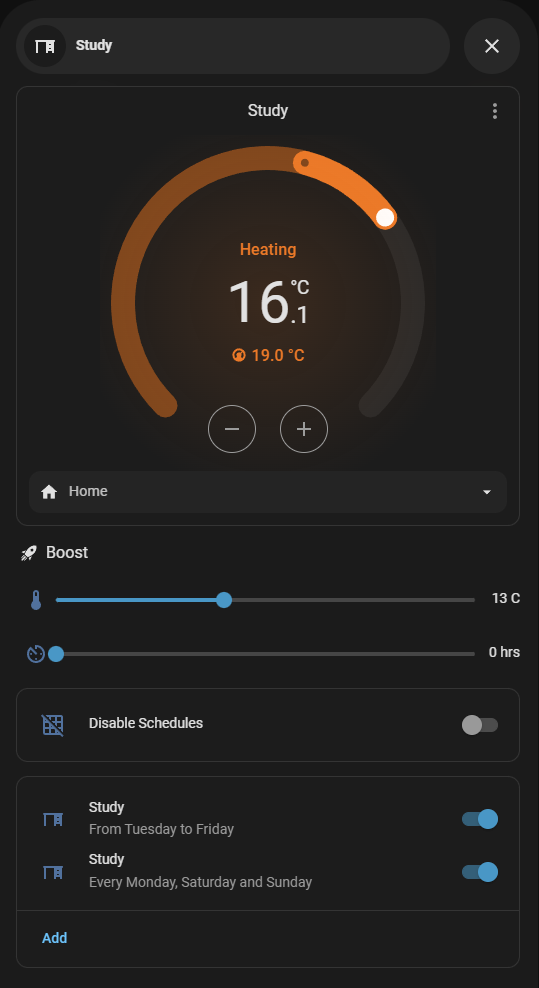
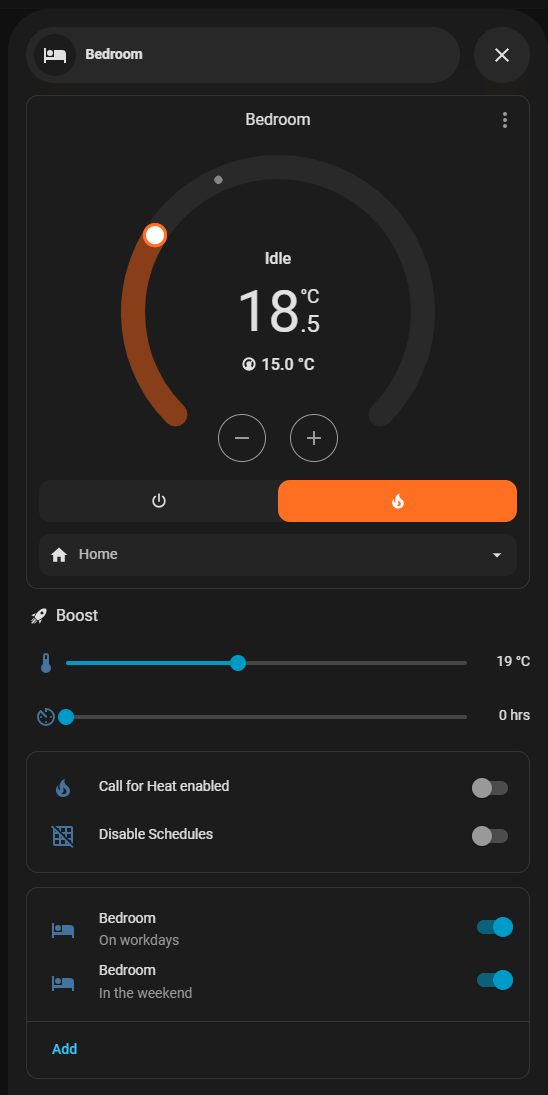
Updated screenshots and added hvac controls to card

diff --git a/www/thermostat-boost-card.js b/www/thermostat-boost-card.js
@@ -470,6 +470,10 @@
         show_current_as_primary: true,
         features: [
           {
+            type: "climate-hvac-modes",
+            style: "icons",
+          },
+          {
             type: "climate-preset-modes",
             style: "dropdown",
           },
